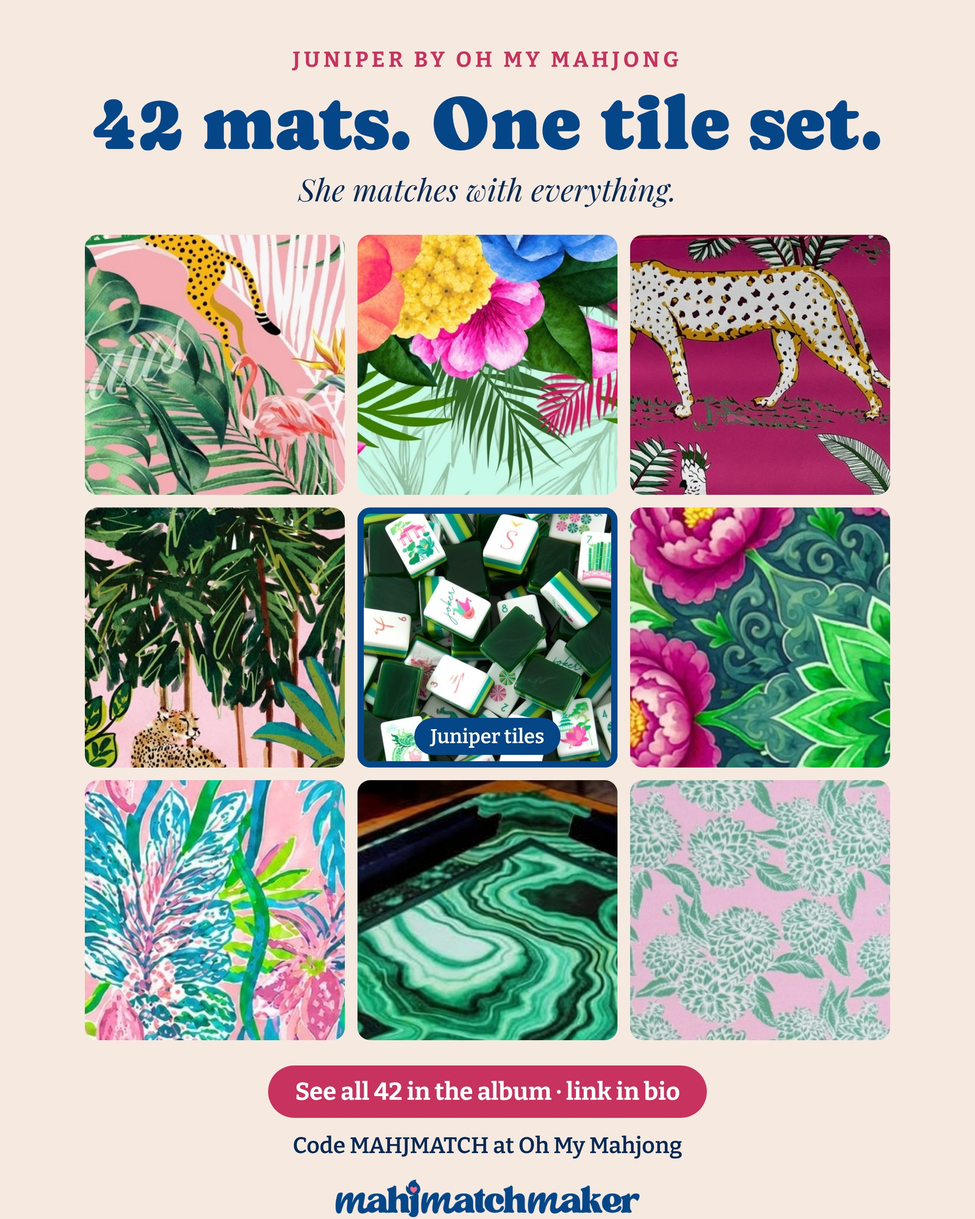
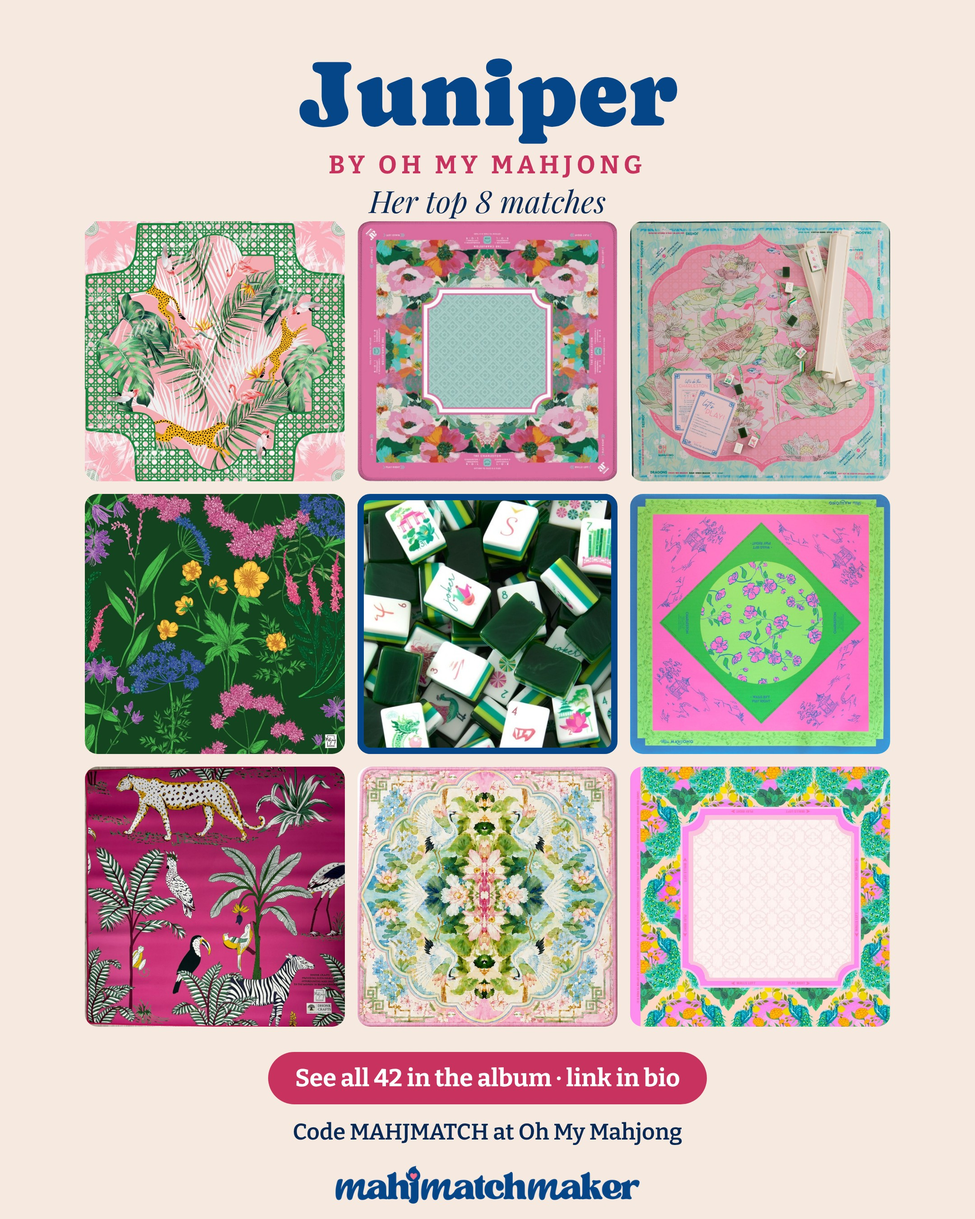
No reminder posts (stories split to auto-post frames); album eye-candy grid rule + Juniper top-8 sample
Claude-Session: https://claude.ai/code/session_01QxwYQtmWcAr4s5uYJYP3mA

diff --git a/assets/social/eye-candy-grid/template.html b/assets/social/eye-candy-grid/template.html
@@ -5,9 +5,9 @@
 @font-face{font-family:Bit;font-weight:600;src:url(/home/claude/mahjmatchmaker-data/scripts/social/tileprofile/fonts/bitter-latin-600-normal.woff2)}
 body{margin:0}
 .c{width:1080px;height:1350px;background:#f6e9df;display:flex;flex-direction:column;align-items:center;box-sizing:border-box;padding:52px 48px 40px}
-.k{font:700 24px Bit;letter-spacing:4px;color:#c8325f}
-h1{font:84px/1 Cap;color:#054689;margin:14px 0 8px}
-.s{font:italic 34px PF;color:#062a55;margin-bottom:28px}
+.k{font:700 28px Bit;letter-spacing:5px;color:#c8325f}
+h1{font:104px/1 Cap;color:#054689;margin:0 0 10px}
+.s{font:italic 34px PF;color:#062a55;}
 .g{display:grid;grid-template-columns:repeat(3,288px);gap:14px}
 .g img{width:288px;height:288px;object-fit:cover;border-radius:14px;display:block}
 .t{position:relative}.t img{outline:7px solid #054689;outline-offset:-7px}
@@ -17,13 +17,13 @@ h1{font:84px/1 Cap;color:#054689;margin:14px 0 8px}
 .code{font:600 25px Bit;color:#062a55;margin-top:16px}
 .wm{height:46px;margin-top:20px}
 </style></head><body><div class="c">
-<div class="k">JUNIPER BY OH MY MAHJONG</div>
-<h1>42 mats. One tile set.</h1>
-<div class="s">She matches with everything.</div>
+<h1>Juniper</h1>
+<div class="k">BY OH MY MAHJONG</div>
+<div class="s">Her top 8 matches</div>
 <div class="g">
-<img src="m0.jpg"><img src="alt1.jpg"><img src="m2.jpg">
-<img src="m3.jpg"><div class="t"><img src="tiles.jpg"><span>Juniper tiles</span></div><img src="m4.jpg">
-<img src="alt3.jpg"><img src="m6.jpg"><img src="m7.jpg">
+<img src="t0.jpg"><img src="t1.jpg"><img src="t2.jpg">
+<img src="t3.jpg"><div class="t"><img src="tiles.jpg"></div><img src="t4.jpg">
+<img src="t5.jpg"><img src="t6c.jpg"><img src="t7c.jpg">
 </div>
 <div class="f"><div class="p">See all 42 in the album · link in bio</div>
 <div class="code">Code MAHJMATCH at Oh My Mahjong</div>

diff --git a/docs/ANSWERS.md b/docs/ANSWERS.md
@@ -1244,3 +1244,5 @@ Tiffany: tabletop room images look AI, don't want them. Use the clean flat/aeria
 - 2026-11-09 1:13am Tiffany: the single "It's a mat-ch!" (one tile set + one mat, two little circles) is a weak grid format ("lame"); it doesn't explain the tool or sell what we do. Every album should be visual eye candy: a grid shot of MANY mats around the tile set. Sample built: assets/social/eye-candy-grid/juniper-grid-sample.jpg (Juniper center, 8 album mats around, "42 mats. One tile set.").
 - 2026-11-09 1:14am Tiffany: the Canva templates she clipped were BASELINE layouts for image dumps (many images); every template decoration (flowers, torn paper, script/condensed fonts) gets replaced with our own content and brand, never kept.
 - 2026-11-09 1:15am Tiffany: Papaya Spritz (October) is the wrong thing to post now. Current sets (Juniper drop Wed 11/11, holiday) lead. Unscheduled from the review week: Mon FYM how-to (Papaya demo), Sat "Tap a color" (Papaya), Fri "Tiles first or mat first?" (Papaya) pending rebuild with current sets.
+- 2026-11-09 1:16am Tiffany STANDING: NO MORE REMINDER POSTS. She will not do them ("I'm not going to do it because I don't have time"); AI is supposed to give her time back. Every post must publish by itself. DONE same turn: review-week stories rebuilt as single-frame auto-posting stories (IG + FB, 1 min apart; 27 frames: Holly Jolly, Tinselle Christmas table, Rackin' Rudolph, Tartan Tidings, Dear Santa). Reels: Planoly attaches a real Instagram catalog song to an auto-posting single-video reel (search_instagram_audio), so song reels auto-post too; no more 🛑 boxes.
+- 2026-11-09 1:17-1:18am Tiffany on the grid card: use her TOP matches in album order (not end-of-album ones), full mat photos (never a corner crop), no pill label over the tiles, title = "Juniper" with "by Oh My Mahjong" (not a subtitle under a slogan), drop "She matches with everything." Rebuilt: assets/social/eye-candy-grid/juniper-grid-sample.jpg (album #1-8 non-holiday).

diff --git a/docs/BRAND-GUIDE.md b/docs/BRAND-GUIDE.md
@@ -531,3 +531,5 @@ Each is asked once. Until she answers, follow the default given here.
 | Nov 7 | Codes list on social: one brand per line ("Brand discount code: MAHJMATCH (10% off)"), never a paragraph of codes. Allowed on the FB group (first comment), the FB Page and the profile-only IG codes post (Tiffany 4:50pm, corrects Oct 30). Partner logo graphic: one graphic, logos trimmed of white space and packed big (no uniform grid). Every graphic/reel is checked at phone size before she sees it. |
 
 - 2026-11-09 01:11 (Tiffany): **No Canva template leftovers, ever.** Template stickers (flowers, torn paper), template fonts (scripts, condensed caps like "JUST MATCHED") and placeholder decoration get removed or the template is not used. Social graphics must look like posts SHE made or normal Instagram content: subject big and centered, our fonts only (Caprasimo / Playfair italic / Bitter), checked at phone size before Planoly. If it would embarrass her on her grid, it does not go in Planoly.
+- 2026-11-09 01:16 (Tiffany): **No reminder posts.** Everything auto-publishes: stories as one auto-post per frame, reels with the song attached in Planoly from Instagram's catalog. If something truly cannot auto-post, Claude finds another way; it never becomes her job.
+- 2026-11-09 01:13-01:18 (Tiffany): **Album grid post = eye candy:** the tile set in the centre of a 3x3 grid of her TOP 8 matches in album order, full mat photos, no labels over tiles; title = set name + "by <brand>"; "See all N in the album · link in bio" + code line + wordmark. Replaces the single two-circle "It's a mat-ch!" as the album's grid post.
